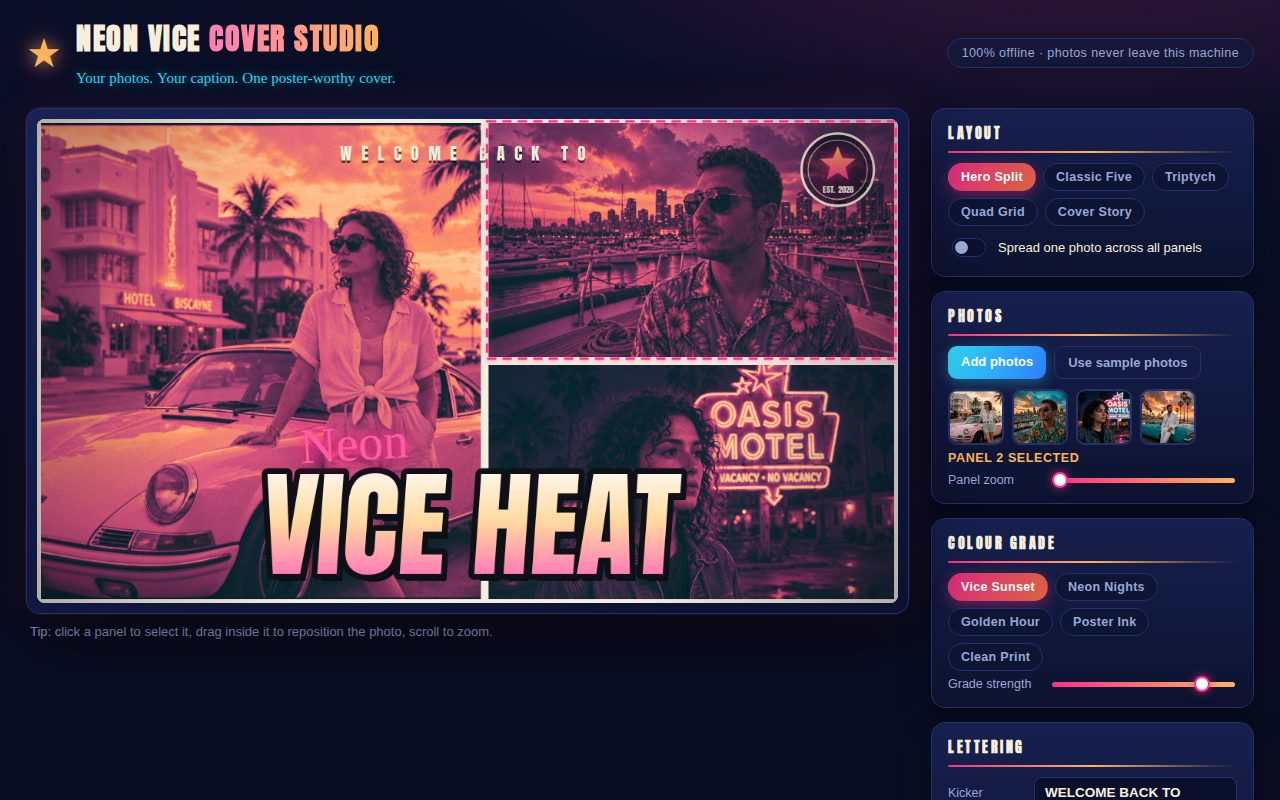
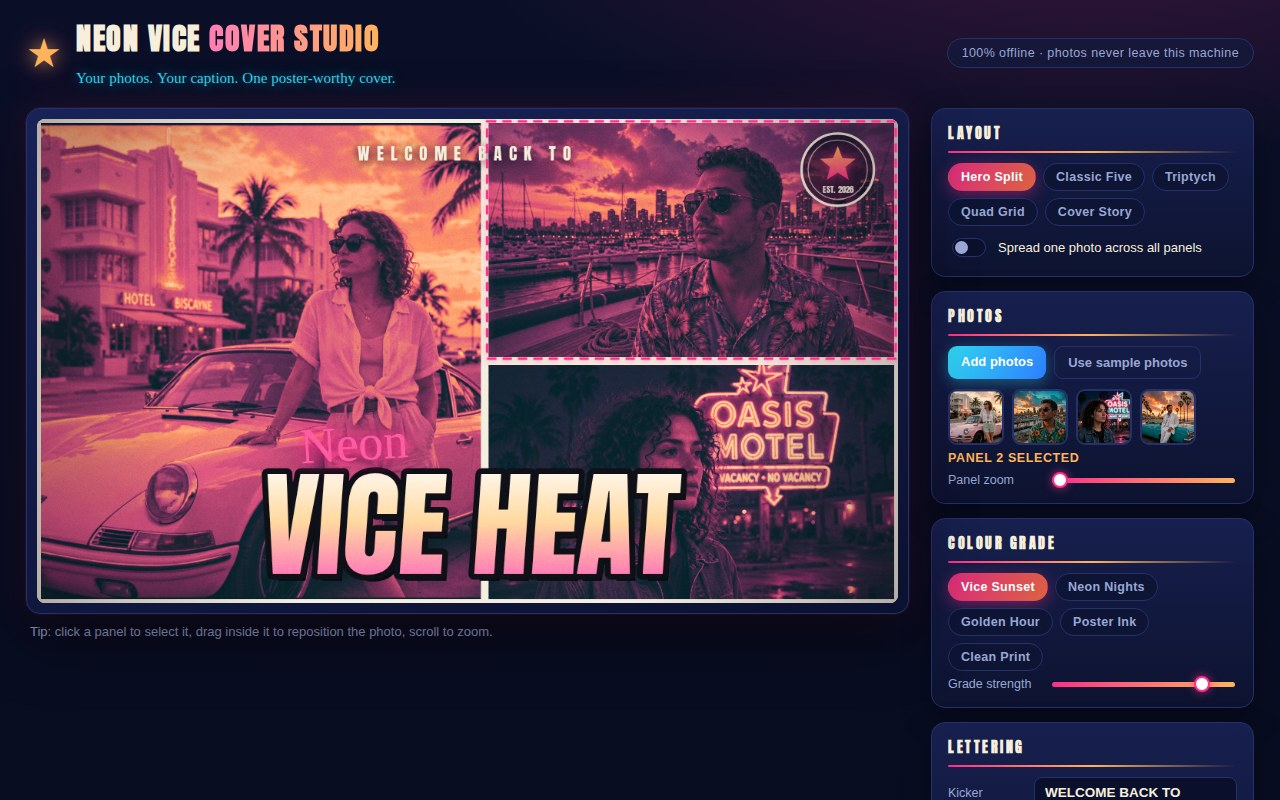
Fix transcript-gate issues: hand-in program rewritten with dossier self-verification and screenshot validation; tighter, soft-shadowed cover kicker; regenerated screenshots

Changed region(s): [[0.25, 0.1562, 0.4688, 0.2188]]

diff --git a/main.ts b/main.ts
@@ -1,16 +1,36 @@
-// Neon Vice Cover Studio - hand-in program (Node 22, standard library only).
+// Neon Vice Cover Studio - the hand-in program (Node 22, standard library
+// only, no dependencies).
 //
-// The entry itself is the static web app under app/: plain files a desktop
-// browser opens straight from disk or any static host, with no build step and
-// no network calls. This program packages that app for the judges. It mirrors
-// app/ and screenshots/ from beside this file into the output directory, then
-// writes dossier.json there with the vendored make.fun library, byte for byte
-// the summary the scorer rebuilds and compares against.
+// What is being handed in is the static web app under app/: plain files a
+// desktop browser opens from disk or any static host, with no build step and
+// no network calls. This program's whole job is to package that app for the
+// judges:
+//
+//   1. mirror app/ and screenshots/ from beside this file into the output
+//      directory, and
+//   2. write dossier.json there, built with the vendored make.fun library
+//      (vendor/makefun-app.ts) - the same bytes the scorer rebuilds from the
+//      copies and compares against.
+//
+// Because the scorer's comparison is byte for byte, the program guards
+// itself the same way: once dossier.json is written it builds the dossier a
+// second time from the copies it just placed in the output directory and
+// byte-compares the two. Any disagreement means the hand-in would fail at
+// grading, so the program exits non-zero with a plain error instead of
+// handing in a dossier it cannot stand behind.
 //
 // Outside the grader's container, MAKEFUN_OUTPUT_DIR stands in for /output:
 //   mkdir -p out && MAKEFUN_OUTPUT_DIR=out node main.ts
 
-import { cpSync, existsSync, mkdirSync, writeFileSync } from 'node:fs';
+import {
+  cpSync,
+  existsSync,
+  mkdirSync,
+  readFileSync,
+  readdirSync,
+  statSync,
+  writeFileSync,
+} from 'node:fs';
 import { join } from 'node:path';
 import { fileURLToPath } from 'node:url';
 import { buildDossier } from './vendor/makefun-app.ts';
@@ -18,23 +38,128 @@ import { buildDossier } from './vendor/makefun-app.ts';
 const entryDir = fileURLToPath(new URL('.', import.meta.url));
 const outputDir = process.env.MAKEFUN_OUTPUT_DIR ?? '/output';
 
+// --- Validate the screenshots before anything is copied -------------------
+//
+// The scorer caps every screenshot at 256 KiB, with a long side of at most
+// 1280 px and a short side of at least 480 px. Checking that here - reading
+// the image headers directly, no image library - turns a grading rejection
+// into a plain local error with the offending file named.
+function imageSize(path) {
+  const bytes = readFileSync(path);
+  // PNG: an 8-byte signature, then the IHDR chunk holds width and height as
+  // big-endian uint32s at bytes 16 and 20.
+  if (bytes.length >= 24 && bytes.readUInt32BE(0) === 0x89504e47) {
+    return { width: bytes.readUInt32BE(16), height: bytes.readUInt32BE(20) };
+  }
+  // JPEG: FF D8, then length-prefixed segments; a start-of-frame segment
+  // (C0-CF except C4, C8 and CC) holds the height, then the width.
+  if (bytes.length >= 4 && bytes[0] === 0xff && bytes[1] === 0xd8) {
+    let offset = 2;
+    while (offset + 9 <= bytes.length && bytes[offset] === 0xff) {
+      const marker = bytes[offset + 1];
+      if (
+        marker >= 0xc0 &&
+        marker <= 0xcf &&
+        marker !== 0xc4 &&
+        marker !== 0xc8 &&
+        marker !== 0xcc
+      ) {
+        return {
+          width: bytes.readUInt16BE(offset + 7),
+          height: bytes.readUInt16BE(offset + 5),
+        };
+      }
+      offset += 2 + bytes.readUInt16BE(offset + 2);
+    }
+  }
+  throw new Error(`cannot read image dimensions from ${path}`);
+}
+
+const screenshotsDir = join(entryDir, 'screenshots');
+if (existsSync(screenshotsDir)) {
+  for (const name of readdirSync(screenshotsDir)) {
+    const path = join(screenshotsDir, name);
+    if (!statSync(path).isFile()) continue;
+    const size = statSync(path).size;
+    if (size > 262144) {
+      console.error(
+        `error: screenshot ${name} is ${size} bytes, over the 262144-byte cap`,
+      );
+      process.exit(1);
+    }
+    const { width, height } = imageSize(path);
+    if (Math.max(width, height) > 1280 || Math.min(width, height) < 480) {
+      console.error(
+        `error: screenshot ${name} is ${width}x${height}; the long side ` +
+          'must be at most 1280 and the short side at least 480',
+      );
+      process.exit(1);
+    }
+    console.log(
+      `screenshot ${name}: ${width}x${height}, ${size} bytes - within limits`,
+    );
+  }
+}
+
+// --- Mirror the entry into the output directory --------------------------
+
 mkdirSync(outputDir, { recursive: true });
 cpSync(join(entryDir, 'app'), join(outputDir, 'app'), { recursive: true });
 mkdirSync(join(outputDir, 'screenshots'), { recursive: true });
 if (existsSync(join(entryDir, 'screenshots'))) {
-  cpSync(join(entryDir, 'screenshots'), join(outputDir, 'screenshots'), { recursive: true });
+  cpSync(join(entryDir, 'screenshots'), join(outputDir, 'screenshots'), {
+    recursive: true,
+  });
 }
 
-// The caps below are the scorer's own (reference/gate.json). Only
-// text_max_bytes shapes the dossier's bytes; the rest make this program refuse
-// an entry the scorer would refuse anyway: more than 4 screenshots or one over
-// 256 KiB, more than 993 files or 48 MiB under app/, or a path under app/
-// longer than 1000 bytes.
-const dossierBytes = buildDossier(outputDir, {
+// --- Build the dossier ----------------------------------------------------
+//
+// These caps are the scorer's own (the kit's reference/gate.json). Of them,
+// only text_max_bytes shapes the dossier's bytes; the rest make this program
+// refuse up front an entry the scorer would refuse anyway - more than 4
+// screenshots or one over 256 KiB, more than 993 files or 48 MiB under app/,
+// or a path under app/ longer than 1000 bytes.
+const dossierOptions = {
   text_max_bytes: 163840,
   screenshots: { max: 4, max_bytes: 262144 },
   app_max_files: 993,
   app_max_bytes: 50331648,
   app_path_max_bytes: 1000,
-});
+};
+const dossierBytes = buildDossier(outputDir, dossierOptions);
 writeFileSync(join(outputDir, 'dossier.json'), dossierBytes);
+
+// --- Report what the hand-in holds ---------------------------------------
+
+function countFiles(dir) {
+  let count = 0;
+  for (const name of readdirSync(dir)) {
+    const path = join(dir, name);
+    count += statSync(path).isDirectory() ? countFiles(path) : 1;
+  }
+  return count;
+}
+const appFiles = countFiles(join(outputDir, 'app'));
+const screenshotFiles = countFiles(join(outputDir, 'screenshots'));
+const dossierSize = Buffer.byteLength(dossierBytes);
+console.log(
+  `copied ${appFiles + screenshotFiles} files ` +
+    `(${appFiles} under app/, ${screenshotFiles} screenshots); ` +
+    `dossier.json is ${dossierSize} bytes`,
+);
+
+// --- Self-verification -----------------------------------------------------
+//
+// Rebuild the dossier from the copied app/ and screenshots/ and byte-compare
+// it with the dossier.json just written. The scorer does exactly this, so a
+// mismatch here is a rejection caught early.
+const rebuiltBytes = buildDossier(outputDir, dossierOptions);
+if (!Buffer.from(rebuiltBytes).equals(Buffer.from(dossierBytes))) {
+  console.error(
+    'error: self-verification failed - the dossier rebuilt from the copied ' +
+      'app/ and screenshots/ differs byte for byte from the dossier.json ' +
+      'just written, so the scorer would reject this hand-in',
+  );
+  process.exit(1);
+}
+console.log('self-verification passed: rebuilt dossier matches byte for byte');

diff --git a/app/src/cover.js b/app/src/cover.js
@@ -275,12 +275,20 @@ function drawCoverLettering(ctx, w, h, text) {
   if (text.kicker) {
     var kickerSize = Math.max(13, w * 0.02);
     ctx.font = kickerSize + 'px "Anton", "Arial Narrow", sans-serif';
-    setCanvasLetterSpacing(ctx, Math.round(kickerSize * 0.55) + 'px');
-    ctx.shadowColor = 'rgba(5, 5, 15, 0.65)';
-    ctx.shadowBlur = 0;
-    ctx.shadowOffsetY = kickerSize * 0.14;
+    // Tighter tracking than before: at the old 0.55 spacing the centred
+    // line stretched so wide that a letter could land half over a panel
+    // gutter. 0.42 keeps the letterspaced poster look while the whole word
+    // sits comfortably inside the hero panel's width.
+    setCanvasLetterSpacing(ctx, Math.round(kickerSize * 0.42) + 'px');
+    // A soft dark halo behind the letters, not a hard offset shadow: the
+    // kicker usually sits over bright sky, and the blurred shadow keeps the
+    // cream text readable without a visible drop edge.
+    ctx.shadowColor = 'rgba(5, 5, 15, 0.85)';
+    ctx.shadowBlur = kickerSize * 0.55;
+    ctx.shadowOffsetY = kickerSize * 0.1;
     ctx.fillStyle = '#f7efdc';
     ctx.fillText(text.kicker.toUpperCase(), centreX, h * 0.085);
+    ctx.shadowBlur = 0;
     ctx.shadowOffsetY = 0;
     setCanvasLetterSpacing(ctx, '0px');
   }
